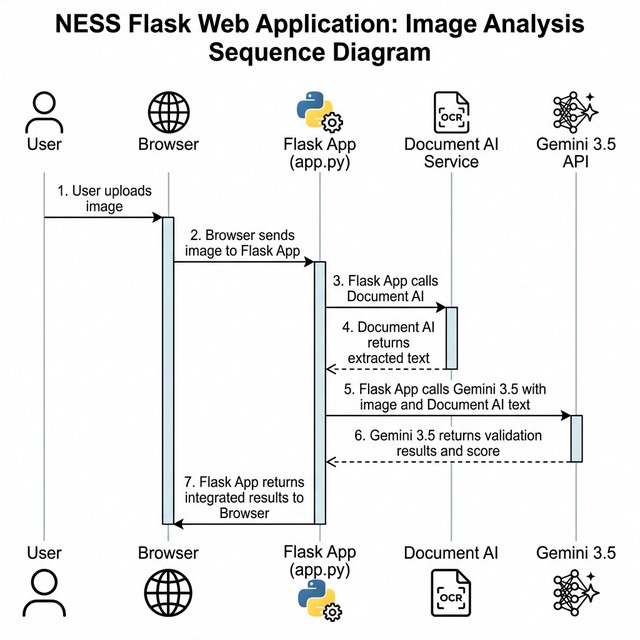
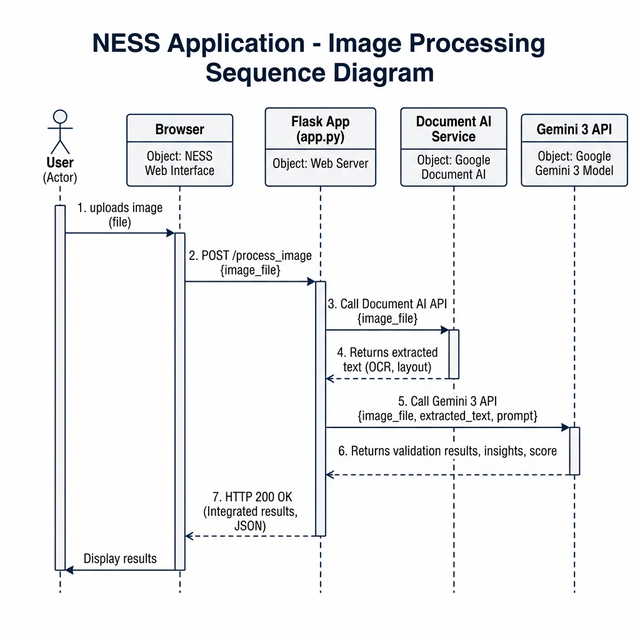
Update to Gemini 3

Changed region(s): [[0.0312, 0.0, 1.0, 0.9688]]

diff --git a/gemini_parser.py b/gemini_parser.py
@@ -8,7 +8,7 @@ load_dotenv()
 
 def analyze_receipt_with_gemini(file_path: str, document_ai_result: dict = None, mime_type: str = None) -> dict:
     """
-    Analyzes a receipt image and audits Document AI results using Gemini 3.5 (via Vertex AI).
+    Analyzes a receipt image and audits Document AI results using Gemini 3 (via Vertex AI).
     Returns a confidence score out of 3.
     """
     if not os.path.exists(file_path):

diff --git a/README.md b/README.md
@@ -65,7 +65,7 @@ Once the server is running, open your web browser and go to:
 The NESS application uses a two-step process to parse and verify receipts:
 
 1.  **Parsing**: Document AI extracts text and key fields from the receipt image.
-2.  **Validation**: Gemini 3.5 (Flash) audits the Document AI results against the original image to ensure accuracy and issue a confidence score.
+2.  **Validation**: Gemini 3 (Flash) audits the Document AI results against the original image to ensure accuracy and issue a confidence score.
 
 ### Interaction Sequence
 
